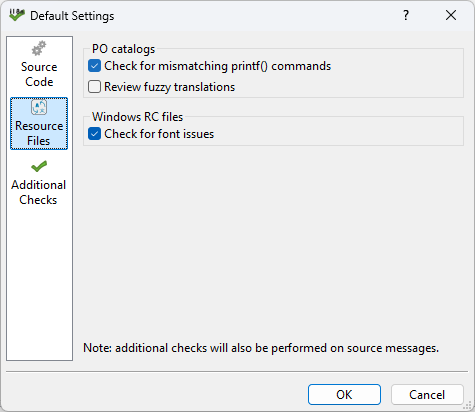
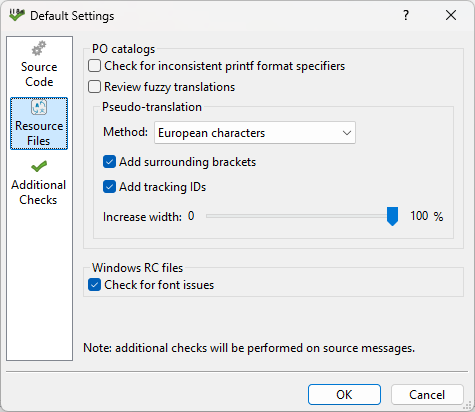
Add more to README about pseudo-translation

diff --git a/README.md b/README.md
@@ -3,16 +3,17 @@
 i18n-check
 =============================
 
-Internationalization & localization analysis system for C++ code, *gettext* catalogs, and Windows RC files.
+Internationalization & localization analysis system for C++ code, *gettext* catalogs, and Windows&reg; RC files.
 
-<img src="main-window.png" width="500" />
-
-<img src="options-dialog-source.png" width="300" />
-<img src="options-dialog-resources.png" width="300" />
+![](main-window.png)
 
 `i18n-check` is a command-line utility and graphical interface that scans source and resource files and checks for
 various i18n and l10n issues. Additionally, the GUI version provides pseudo-translation support for
 *gettext* catalogs (\*.po files).
+
+## Checks
+
+![](options-dialog-source.png)
 
 The command line and GUI versions provide the following checks:
 
@@ -56,7 +57,25 @@ Code formatting issues can also be checked for, such as:
 - Lines longer than 120 characters.
 - Spaces missing between "//" and their comments.
 
-`i18n-check` will work with C, modern C++, and '98/'03 C++ code, GNU *gettext* translation files (\*.po), and Windows resource files (\*.rc).
+## Pseudo-translation
+
+(availabe in the GUI version)
+
+![](options-dialog-resources.png)
+
+Pseudo-translation includes features such as:
+- Multiple methods for character replacement (e.g., replacing characters with accented variations or upper casing them).
+- Increasing the width of the translations. This is useful for ensuring that strings are not being truncated at runtime.
+- Wrapping the translations in braces. This is useful for ensuring that strings are not being pieced together at runtime.
+- Appending a unique ID to each translation. This is useful for finding where a translation is being loaded from.
+
+When pseudo-translating, a copy of all *gettext* \*.po and \*.pot files will be created and have their translations filled
+with mutations of the respective source strings. These files (which will have a "pseudo_" prefix) can then be compiled into \*.mo files and
+loaded by your application for integration testing.
+
+## File Support
+
+`i18n-check` will work with C, modern C++, and '98/'03 C++ code, GNU *gettext* translation files (\*.po), and Windows&reg; resource files (\*.rc).
 In particular, it offers specialized support for the following frameworks:
 
 - wxWidgets
